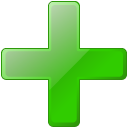
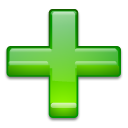
Some css fixes

diff --git a/css/app.css b/css/app.css
@@ -93,6 +93,12 @@ button, .gray_grad, .light_grad{
     transition-property: background-color;
     transition-duration: 1s;
 }
+button img{
+    width: 24px;
+}
+#Ledger_acc_props button img{
+    width: 16px;
+}
 button:hover, .gray_grad:hover, .light_grad:hover{ 
     background-color: #86bdf2;
     color: #000000;
